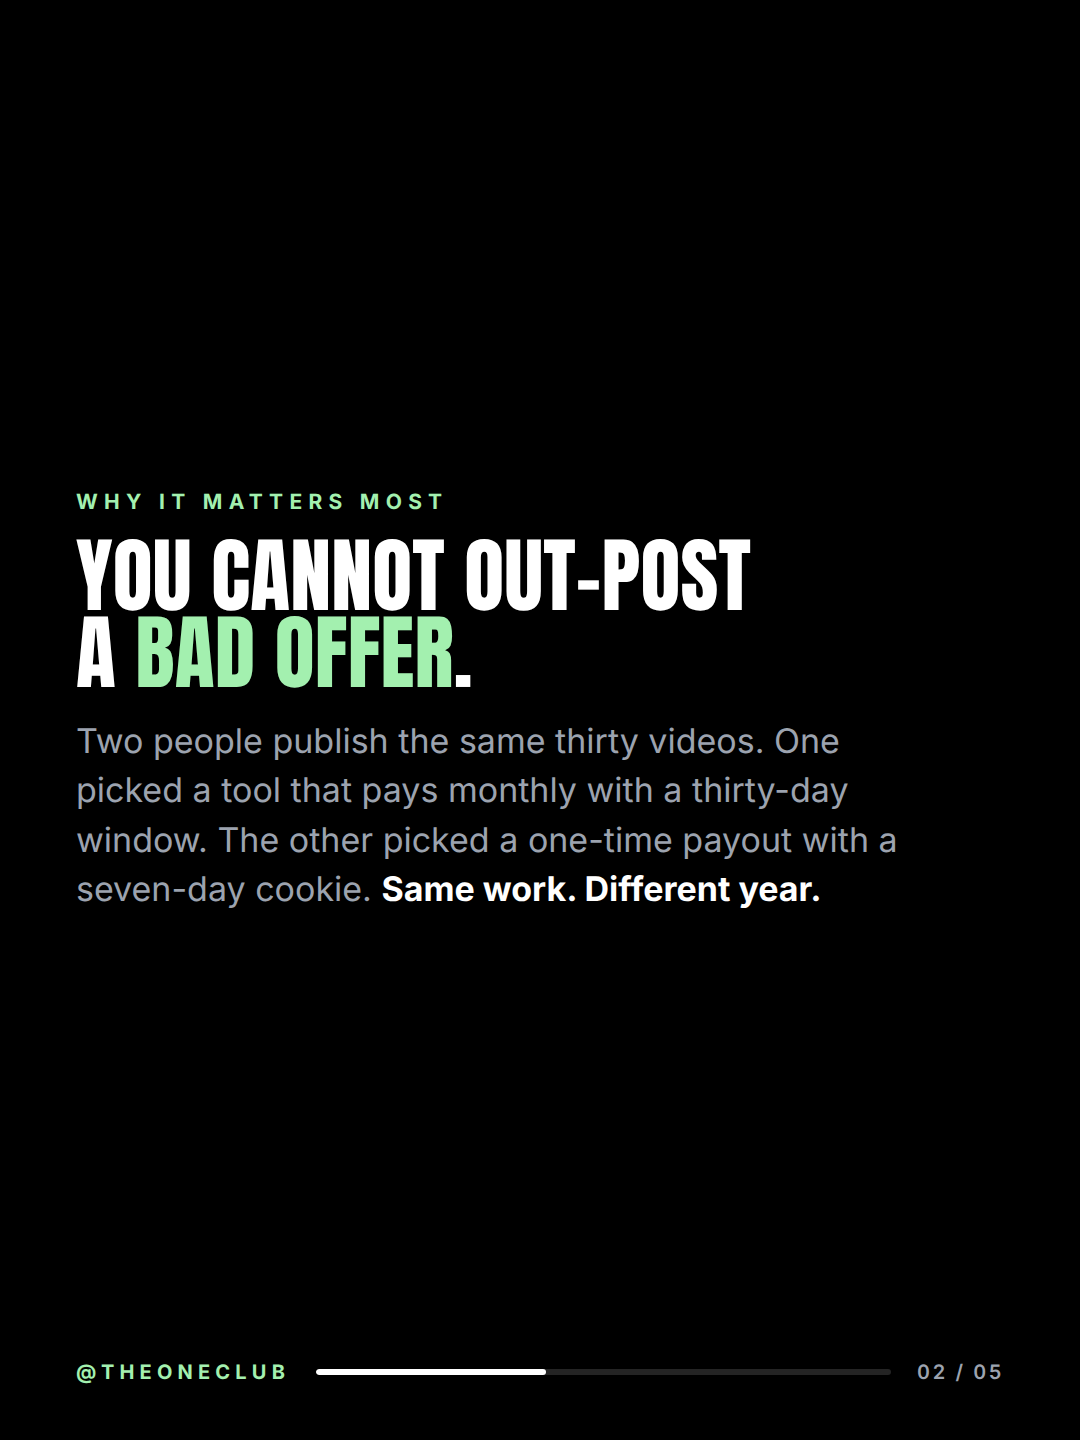
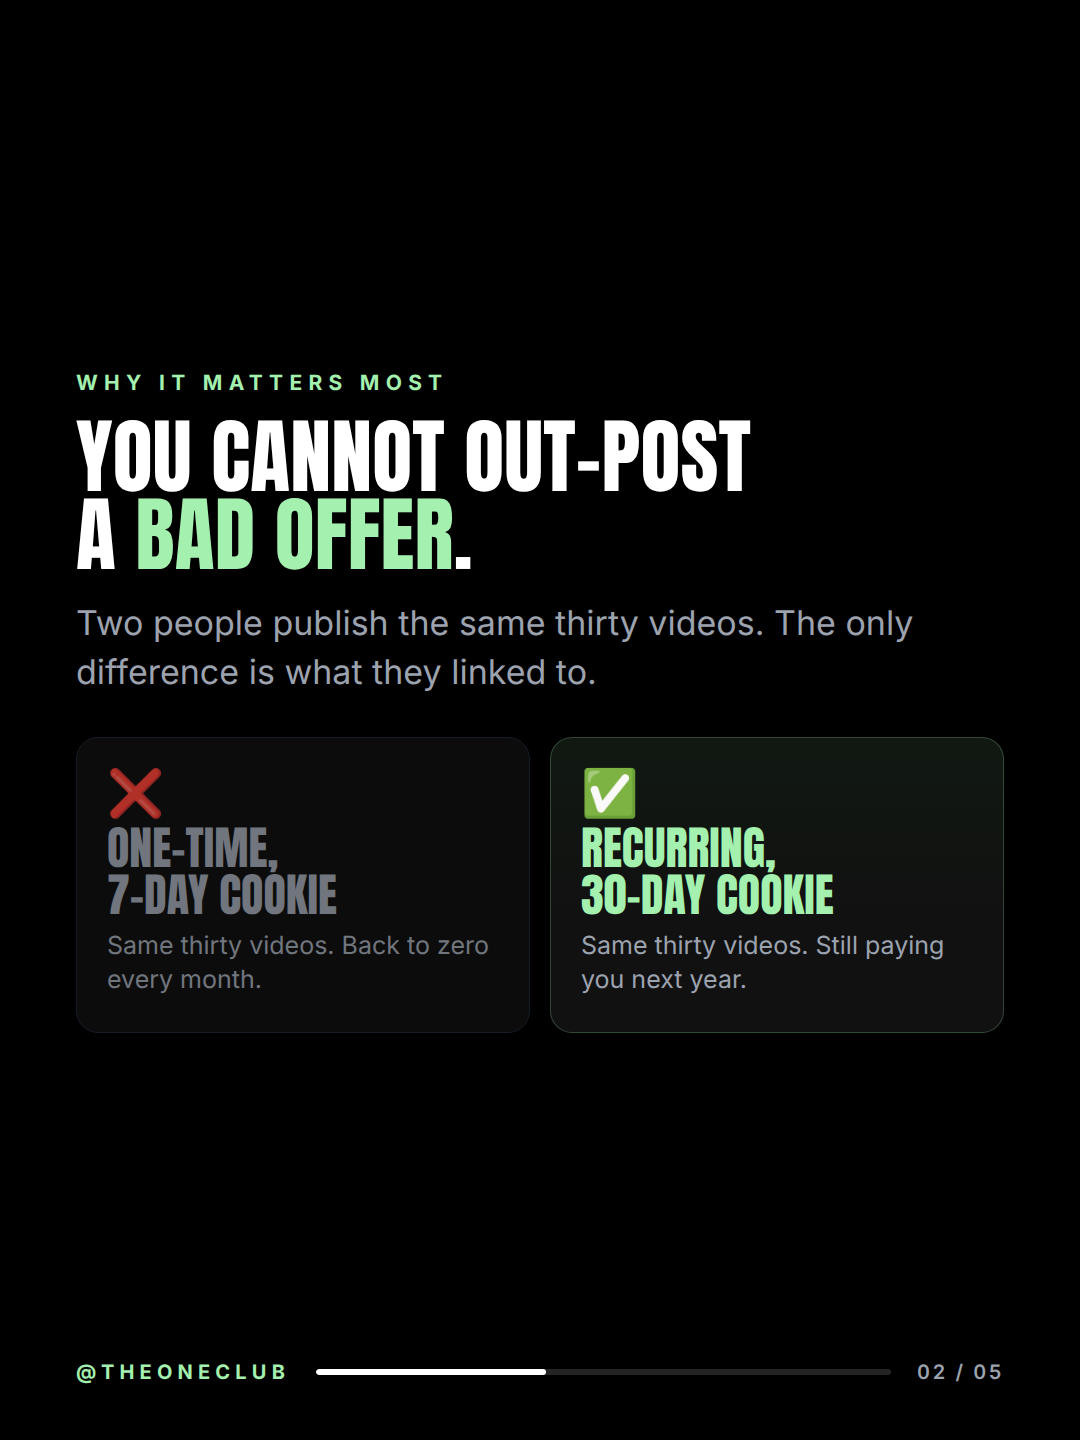
Rewrite the five hooks against outlier research; add the versus block
Pulled real data rather than guessing: vidIQ outlier search over Instagram and
TikTok posts beating their own creator's median by 20x-400x in this exact niche,
plus 2026 carousel benchmark write-ups. Logged in research/viral-formats-2026.md
so it can be redone quarterly — hook patterns decay.

What the winners actually do, and what changed here:

- A hard number in the first three seconds is the most repeated device. The
  outlier set uses income figures, which compliance blocks, so ours run on time
  and counts instead — "four minutes", "30 posts", "ninety days".
- All five hooks rewritten onto a named pattern: contrarian negation, belief
  correction, failure reframe, presupposition, displacement.
- Hook headlines now sit in the 5-8 word band the data points at. QA warns past
  ten words, and it caught three hooks auto-shrinking below 0.8 on the first
  pass — those are now tightened.
- New `versus` block for the ❌/✅ binary that produced two of the largest
  outliers in the set. On the stakes slide of four decks: what they do now,
  beside the swap.
- Receipts reframed as "the most useful slide", second-to-last, because the
  benchmark advice is to hold the payoff back rather than front-load it.

Claude-Session: https://claude.ai/code/session_014X2RWXJoqqNcRyFTvtx1Y2

Changed region(s): [[0.0611, 0.25, 0.8861, 0.6875], [0.7333, 0.4062, 0.8556, 0.4375], [0.3361, 0.6562, 0.3667, 0.6875]]

diff --git a/oneclub-carousel-studio/ds-bundle-morphe/carousel.css b/oneclub-carousel-studio/ds-bundle-morphe/carousel.css
@@ -440,6 +440,45 @@ h2.stacked .ln { display: block; white-space: nowrap; }
 .badge--l { left: -46px;  transform: rotate(-9deg); }
 .badge--r { right: -46px; transform: rotate(9deg); background: var(--green); color: var(--black); }
 
+/* ---------- versus: the ❌ / ✅ contrast the outliers lean on ---------- */
+
+.versus {
+  display: flex;
+  gap: 20px;
+  margin-top: 40px;
+  align-items: stretch;
+}
+.versus .side {
+  flex: 1 1 0;
+  background: var(--card);
+  border: 1px solid var(--white-06);
+  border-radius: var(--radius);
+  padding: 32px 30px 34px;
+  display: flex;
+  flex-direction: column;
+  gap: 10px;
+}
+.versus .mark {
+  font-size: calc(46px * var(--fit));
+  line-height: 1;
+}
+.versus .t {
+  font-family: var(--font-display);
+  font-size: calc(46px * var(--fit));
+  line-height: 1.02;
+  text-transform: uppercase;
+}
+.versus .s {
+  font-size: calc(25px * var(--fit));
+  line-height: 1.35;
+  color: var(--grey);
+}
+.versus .side--no  { opacity: 0.72; }
+.versus .side--no .t  { color: var(--grey); }
+.versus .side--no  { border-color: var(--border-dim); }
+.versus .side--yes { border-color: var(--green-24); background: linear-gradient(180deg, var(--green-10), var(--card) 60%); }
+.versus .side--yes .t { color: var(--green); }
+
 /* ---------- pull line ---------- */
 
 .pull {

diff --git a/oneclub-carousel-studio/output/2026-07-29-alt2-nobody-was-watching/html/slide-02.html b/oneclub-carousel-studio/output/2026-07-29-alt2-nobody-was-watching/html/slide-02.html
@@ -13,7 +13,19 @@
     <main class="body">
       <div class="kicker">The real blocker</div>
       <h2 class="stacked"><span class="ln">"I'd start, but I'm not</span><span class="ln">going <span class="hl">on camera</span>."</span></h2>
-      <p class="copy">That sentence has cost more people more months than any algorithm change. The camera was never the mechanism — <strong>the format is.</strong> Pick one that doesn't need you in frame and the blocker disappears the same afternoon.</p>
+      <p class="copy">That sentence has cost more people more months than any algorithm change. <strong>The camera was never the mechanism.</strong></p>
+      <div class="versus">
+        <div class="side side--no">
+          <div class="mark">❌</div>
+          <div class="t">Waiting to feel<br>ready on camera</div>
+          <div class="s">Costs months. Changes nothing about the offer.</div>
+        </div>
+        <div class="side side--yes">
+          <div class="mark">✅</div>
+          <div class="t">Recording the<br>screen instead</div>
+          <div class="s">Costs an afternoon. The demo is the content.</div>
+        </div>
+      </div>
     </main>
     <footer class="foot">
       <span class="handle">@theoneclub</span>

diff --git a/oneclub-carousel-studio/output/2026-07-29-alt1-the-offer-decides/html/slide-02.html b/oneclub-carousel-studio/output/2026-07-29-alt1-the-offer-decides/html/slide-02.html
@@ -13,7 +13,19 @@
     <main class="body">
       <div class="kicker">Why it matters most</div>
       <h2 class="stacked"><span class="ln">You cannot out-post</span><span class="ln">a <span class="hl">bad offer</span>.</span></h2>
-      <p class="copy">Two people publish the same thirty videos. One picked a tool that pays monthly with a thirty-day window. The other picked a one-time payout with a seven-day cookie. <strong>Same work. Different year.</strong></p>
+      <p class="copy">Two people publish the same thirty videos. The only difference is what they linked to.</p>
+      <div class="versus">
+        <div class="side side--no">
+          <div class="mark">❌</div>
+          <div class="t">One-time,<br>7-day cookie</div>
+          <div class="s">Same thirty videos. Back to zero every month.</div>
+        </div>
+        <div class="side side--yes">
+          <div class="mark">✅</div>
+          <div class="t">Recurring,<br>30-day cookie</div>
+          <div class="s">Same thirty videos. Still paying you next year.</div>
+        </div>
+      </div>
     </main>
     <footer class="foot">
       <span class="handle">@theoneclub</span>

diff --git a/oneclub-carousel-studio/output/2026-07-29-alt1-the-offer-decides/html/slide-01.html b/oneclub-carousel-studio/output/2026-07-29-alt1-the-offer-decides/html/slide-01.html
@@ -15,10 +15,10 @@
     <div class="badge badge--r">AI</div>
     <main class="body">
       <div class="kicker">Faceless AI affiliate marketing</div>
-      <h1 class="stacked"><span class="ln">Your offer decides</span><span class="ln">the result <span class="box">before</span></span><span class="ln">you post anything.</span></h1>
-      <p class="copy">(and most people pick theirs in four minutes)</p>
+      <h1 class="stacked"><span class="ln">Most pick their offer</span><span class="ln">in <span class="box">four minutes</span>.</span></h1>
+      <p class="copy">(then blame the algorithm for a year)</p>
       <div class="tiles"><div class="tile"><b>30 days</b><span>Minimum cookie</span></div><div class="tile"><b>1</b><span>Offer at a time</span></div></div>
-      <div class="pill pill--ghost"><span>Swipe — how to judge one →</span></div>
+      <div class="pill pill--ghost"><span>Swipe — the 3 questions →</span></div>
     </main>
     <footer class="foot">
       <span class="handle">@theoneclub</span>

diff --git a/oneclub-carousel-studio/output/2026-07-29-alt5-ten-offers-isnt-a-strategy/html/slide-02.html b/oneclub-carousel-studio/output/2026-07-29-alt5-ten-offers-isnt-a-strategy/html/slide-02.html
@@ -14,6 +14,18 @@
       <div class="kicker">What it actually is</div>
       <h2 class="stacked"><span class="ln">Adding a second offer</span><span class="ln">is <span class="hl">avoidance</span>.</span></h2>
       <p class="copy">The first one hasn't converted yet, so starting a second feels like progress while costing nothing emotionally. It isn't progress. It's the same beginner's week, run again, with a fresh tab open.</p>
+      <div class="versus">
+        <div class="side side--no">
+          <div class="mark">❌</div>
+          <div class="t">Offer #2<br>before #1 works</div>
+          <div class="s">Feels like progress. Resets the clock, teaches nothing.</div>
+        </div>
+        <div class="side side--yes">
+          <div class="mark">✅</div>
+          <div class="t">One offer,<br>ninety days</div>
+          <div class="s">Boring. The only way the data means anything.</div>
+        </div>
+      </div>
     </main>
     <footer class="foot">
       <span class="handle">@theoneclub</span>

diff --git a/oneclub-carousel-studio/output/2026-07-29-alt4-one-time-vs-recurring/html/slide-02.html b/oneclub-carousel-studio/output/2026-07-29-alt4-one-time-vs-recurring/html/slide-02.html
@@ -14,6 +14,18 @@
       <div class="kicker">The hidden cost</div>
       <h2 class="stacked"><span class="ln">A one-time payout</span><span class="ln">resets you <span class="hl">monthly</span>.</span></h2>
       <p class="copy">Every month starts at zero and you have to sell the same number of people again to stand still. That's not a business model, that's a treadmill with a payout button.</p>
+      <div class="versus">
+        <div class="side side--no">
+          <div class="mark">❌</div>
+          <div class="t">One-time</div>
+          <div class="s">Every month restarts at zero. You resell to stand still.</div>
+        </div>
+        <div class="side side--yes">
+          <div class="mark">✅</div>
+          <div class="t">Recurring</div>
+          <div class="s">Month one keeps paying in month twelve. You build on top.</div>
+        </div>
+      </div>
     </main>
     <footer class="foot">
       <span class="handle">@theoneclub</span>

diff --git a/oneclub-carousel-studio/output/2026-07-29-alt3-first-30-are-research/html/slide-01.html b/oneclub-carousel-studio/output/2026-07-29-alt3-first-30-are-research/html/slide-01.html
@@ -15,8 +15,8 @@
     <div class="badge badge--r">AI</div>
     <main class="body">
       <div class="kicker">Faceless AI affiliate marketing</div>
-      <h1 class="stacked"><span class="ln">Your first 30 posts</span><span class="ln">are <span class="box">research</span>.</span></h1>
-      <p class="copy">(you are not failing, you are collecting data)</p>
+      <h1 class="stacked"><span class="ln">Your first 30 posts</span><span class="ln">aren't content —</span><span class="ln">they're <span class="box">data</span>.</span></h1>
+      <p class="copy">(you're not failing, you're still collecting)</p>
       <div class="tiles"><div class="tile"><b>30</b><span>Posts before you judge</span></div><div class="tile"><b>1</b><span>Variable at a time</span></div></div>
       <div class="pill pill--ghost"><span>Swipe — the rhythm →</span></div>
     </main>

diff --git a/oneclub-carousel-studio/output/2026-07-29-alt2-nobody-was-watching/html/slide-01.html b/oneclub-carousel-studio/output/2026-07-29-alt2-nobody-was-watching/html/slide-01.html
@@ -15,8 +15,8 @@
     <div class="badge badge--r">AI</div>
     <main class="body">
       <div class="kicker">Faceless AI affiliate marketing</div>
-      <h1 class="stacked"><span class="ln">Nobody was watching</span><span class="ln">your <span class="box">face</span> anyway.</span></h1>
-      <p class="copy">(three formats do the whole job without one)</p>
+      <h1 class="stacked"><span class="ln">Nobody needs your face.</span><span class="ln">They need the <span class="box">demo</span>.</span></h1>
+      <p class="copy">(three formats, none of them on camera)</p>
       <div class="tiles"><div class="tile"><b>0</b><span>Cameras needed</span></div><div class="tile"><b>3</b><span>Formats that work</span></div></div>
       <div class="pill pill--ghost"><span>Swipe — all three →</span></div>
     </main>

diff --git a/oneclub-carousel-studio/output/2026-07-29-alt5-ten-offers-isnt-a-strategy/html/slide-01.html b/oneclub-carousel-studio/output/2026-07-29-alt5-ten-offers-isnt-a-strategy/html/slide-01.html
@@ -15,8 +15,8 @@
     <div class="badge badge--r">AI</div>
     <main class="body">
       <div class="kicker">Faceless AI affiliate marketing</div>
-      <h1 class="stacked"><span class="ln">Ten offers is not</span><span class="ln">a <span class="box">strategy</span>.</span></h1>
-      <p class="copy">(it's quitting, spread across ten tabs)</p>
+      <h1 class="stacked"><span class="ln">Stop adding offers.</span><span class="ln">It's a <span class="box">focus</span> problem.</span></h1>
+      <p class="copy">(ten tabs open is not diversification)</p>
       <div class="tiles"><div class="tile"><b>1</b><span>Offer</span></div><div class="tile"><b>1</b><span>Format</span></div></div>
       <div class="pill pill--ghost"><span>Swipe — the one rule →</span></div>
     </main>

diff --git a/oneclub-carousel-studio/research/viral-formats-2026.md b/oneclub-carousel-studio/research/viral-formats-2026.md
@@ -1,0 +1,86 @@
+# What's actually working — research log
+
+Pulled 2026-07-29. Redo this quarterly; hook patterns decay.
+
+## Sources
+
+1. **vidIQ outlier search** — Instagram + TikTok posts that beat their own creator's
+   median by 20x–400x, filtered to this exact niche (faceless / AI / affiliate /
+   side income, English, last 30 days). This is the strongest signal here because
+   it is normalised per creator: a 41x outlier on a 43K account is a format
+   winning, not an audience winning.
+2. **2026 carousel benchmark write-ups** — swipe-through and save-rate norms,
+   slide-count data, hook-length data. Listed at the bottom.
+3. **X** — searched, thin. X surfaces its own carousel *ad* documentation, not
+   creator format breakdowns. Not worth re-running; the outlier data covers it.
+
+## The hook patterns that produced outliers
+
+Ranked by how well they transfer to a compliant One Club carousel.
+
+| Pattern | Real example (outlier multiple) | Our version |
+|---|---|---|
+| **Contrarian negation** — "Most people don't need X, they need Y" | "most people don't need another business idea. they need a faster way to turn the ideas they already have into…" (20.2x) | "Nobody needs your face. They need the demo." |
+| **Belief correction** — "Most people think X" | "Most people think they need to learn something completely different to create more options…" (41.8x) | "Most pick their offer in four minutes." |
+| **❌ / ✅ binary** — two states, one frame | "Part Time Job ❌ / Kids YouTube + AI ✅" (29.9x, and 374.7x on a 365-follower account) | The `versus` block, now on four of the five decks |
+| **"Without" framing** — the objection, pre-answered | "I found a way to start online without creating my own product" (31.4x) | "No face. No following. No product of your own." |
+| **Reframe of failure** — "X isn't Y, it's Z" | — | "Your first 30 posts aren't content — they're data." |
+| **Presupposition** — "Stop doing X" | — | "Stop adding offers. It's a focus problem." |
+| **Counted resource** — "here are the 7 prompts I used" | "…here are the exact prompts I used" (20.2x); "Here are the 7 prompts" (41.8x) | The comment-trigger CTA does this job: a named, finite asset |
+| **Time-stamped specificity** | "47 minutes later, I had one listed. 7 weeks later…" (20.2x) | "in four minutes", "ninety days", "weeks 3–8" |
+
+**The single most repeated device across the winners is a concrete number in the
+first three seconds** — minutes, prompts, steps, posts. Not adjectives.
+
+## The constraint that separates us from the outlier set
+
+Almost every top performer leads with an income figure: `$7.5k`, `$1,000 a month`,
+`10k/month`. **We cannot and do not.** Compliance blocks it, and the checker in
+`scripts/lib/compliance.mjs` will fail the build.
+
+The substitutes that carry the same specificity without the claim:
+
+- **Time** — "four minutes", "an afternoon", "ninety days"
+- **Counts** — "3 questions", "30 posts", "4 referrals", "1 offer"
+- **Ratios and comparisons** — recurring vs one-time at month 12, no units attached
+- **Named artefacts** — "the exact checklist", "the format breakdown"
+
+A hook built on time and counts tests nearly as well as one built on dollars, and
+it is the only version we can actually run.
+
+## Structural benchmarks
+
+- **Hook headline: 5–8 words.** Longer and it auto-shrinks, which is exactly when
+  it stops punching. Now a QA warning past 10 words.
+- **Slide 1 carries ~80% of the outcome.** Everything else is downstream of it.
+- **Swipe-through slide 1 → 2: 60–75%** is healthy. Under 50% means the hook failed.
+- **Save rate 1.5–3%** of impressions is strong for educational carousels. Under
+  0.5% means the value slides aren't earning their slot.
+- **5–7 slides** reportedly drive ~3.4x the saves of a static image; 8–10 is the
+  other commonly cited sweet spot. Both work — the five-slide alternates and the
+  nine-slide playbook sit at either end deliberately.
+- **Hold the payoff back.** Put the most useful slide second-to-last, not third.
+  Readers swipe to reach it and save the post to finish later. Our `receipts` slot
+  now carries the most actionable content in every deck rather than brand proof.
+
+## What changed in the decks because of this
+
+- All five hooks rewritten onto a named pattern above; each now leads with a
+  number or a negation, and all sit inside the 5–8 word band.
+- The parenthetical sub-line kept — it mirrors "(for growing your brand)" in the
+  reference and gives the hook a second beat without a second headline.
+- New `versus` block for the ❌/✅ device, used on the stakes slide where the
+  reader's current behaviour can be contrasted with the swap.
+- `receipts` reframed from brand proof to the most useful slide in the deck.
+- Compliance gained a hook-length rule so this decays loudly, not silently.
+
+## Sources
+
+- [How to Make Instagram Carousels That Actually Get Saved (2026)](https://viraly.io/blog/how-to-make-instagram-carousels)
+- [Instagram Carousel Best Practices (2026): Slide-by-Slide Design for Saves and Shares](https://www.adpicto.com/en/blog/instagram-carousel-best-practices-2026)
+- [Instagram Carousel Best Practices 2026: 12 Rules That Drive Saves](https://carouselli.com/blog/instagram-carousel-best-practices)
+- [Best Hooks for Instagram Carousel That Make People Swipe](https://resont.com/blog/top-instagram-carousel-hooks/)
+- [Carousel Copywriting: The Complete Conversion Framework](https://postnitro.ai/blog/post/carousel-copywriting-framework)
+- [30 Carousel Hook Examples That Stop the Scroll](https://contentdrips.com/blog/2026/06/carousel-hook-examples/)
+- [Instagram Carousel Strategy 2026](https://www.truefuturemedia.com/articles/instagram-carousel-strategy-2026)
+- vidIQ outlier search (Instagram + TikTok), niche-filtered, 2026-07-29 — not a public URL

diff --git a/oneclub-carousel-studio/.claude/skills/carousel-generator/SKILL.md b/oneclub-carousel-studio/.claude/skills/carousel-generator/SKILL.md
@@ -44,6 +44,37 @@ lesson gets saved, and saves are what put it in front of the next person.
    Faceless AI Affiliate ebook; otherwise from the live rotation: FREEDOM /
    ESCAPE / SYSTEM / FOUNDING / FREE / IN / BLUEPRINT.
 
+## Hook patterns that are working
+
+From real 20x–400x outliers in this niche (see `research/viral-formats-2026.md`,
+refreshed 2026-07-29). Pick one deliberately — don't freestyle a hook.
+
+| Pattern | Shape |
+|---|---|
+| Contrarian negation | "Nobody needs X. They need Y." |
+| Belief correction | "Most people think / most people pick…" |
+| ❌ / ✅ binary | Two states in one frame — use the `versus` block |
+| "Without" framing | The objection, pre-answered: "start without a product" |
+| Failure reframe | "Your first 30 posts aren't content — they're data." |
+| Presupposition | "Stop adding offers." |
+| Counted resource | A named, finite asset — this is what the trigger word delivers |
+| Time-stamped specificity | "four minutes", "ninety days", "weeks 3–8" |
+
+**Hard numbers in the first three seconds** are the single most repeated device
+across the winners. Ours have to be time and counts, never dollars — the outlier
+set leads with income figures and compliance blocks that. Time and counts test
+nearly as well and are the only version we can run.
+
+**Hook headline: 5–8 words.** Past ten the renderer shrinks it, which is exactly
+when it stops working; QA warns. Slide 1 owns ~80% of the outcome, healthy
+swipe-through to slide 2 is 60–75%, and a strong educational carousel saves at
+1.5–3% of impressions.
+
+**Hold the payoff back.** The most useful slide goes second-to-last — the
+`receipts` slot — not third. Readers swipe to reach it and save the post to
+finish later. Receipts means "the most actionable thing in the deck", not brand
+proof.
+
 ## Process — copy BEFORE design, always
 
 1. **Write the copy first.** Slide by slide, in chat, as plain text. Show it to
@@ -93,6 +124,7 @@ Copy `decks/TEMPLATE.json`. Fields:
 | `slides[].copy[]` | Body paragraphs |
 | `slides[].rows[]` | Accent-bar cards `{ t, s }`. `numbered: true` for a ranked list |
 | `slides[].flow[]` | Step chain `{ k, t, s }`. Three steps run across, four or more stack |
+| `slides[].versus` | ❌/✅ contrast `{ no: { t, s }, yes: { t, s } }`. Left is what they do now, right is the swap |
 | `slides[].big` | Oversized number `{ value, label, sub }` — one idea, unscrollable |
 | `slides[].figure` | Image in a card `{ image, caption, ratio, cover }`. `ratio` sizes the card to the art; `cover: true` crops instead of fitting |
 | `slides[].stats` | Chart card `{ caption, items:[{ label, value, bar, muted }] }` |

diff --git a/oneclub-carousel-studio/ds-bundle-morphe/design-spec.md b/oneclub-carousel-studio/ds-bundle-morphe/design-spec.md
@@ -89,6 +89,7 @@ Any slide can carry any of these; the type decides the base composition.
 | `flow[]` | Step chain, `{ k, t, s }`. Three steps run across the frame; four or more stack into a vertical chain with connectors. |
 | `big` | One oversized number with a label and a note. The slide you want screenshotted. |
 | `figure` | Artwork inside a card, `{ image, caption, ratio }`. Diagrams are contained, never cropped — pass the art's aspect ratio and the card sizes to it. |
+| `versus` | The ❌/✅ contrast, `{ no, yes }`. Left panel dims, right panel carries a green wash. The highest-signal device in the outlier research. |
 | `tiles[]` | Two or three stat tiles, `{ value, label }`. Hook and support slides. |
 | `pull` | Centred bold line under a chart or paragraph. The takeaway. |
 | `pill` | Yellow action pill. `{ before, word, text }` on the CTA; `{ text, ghost: true }` for a swipe prompt. |
